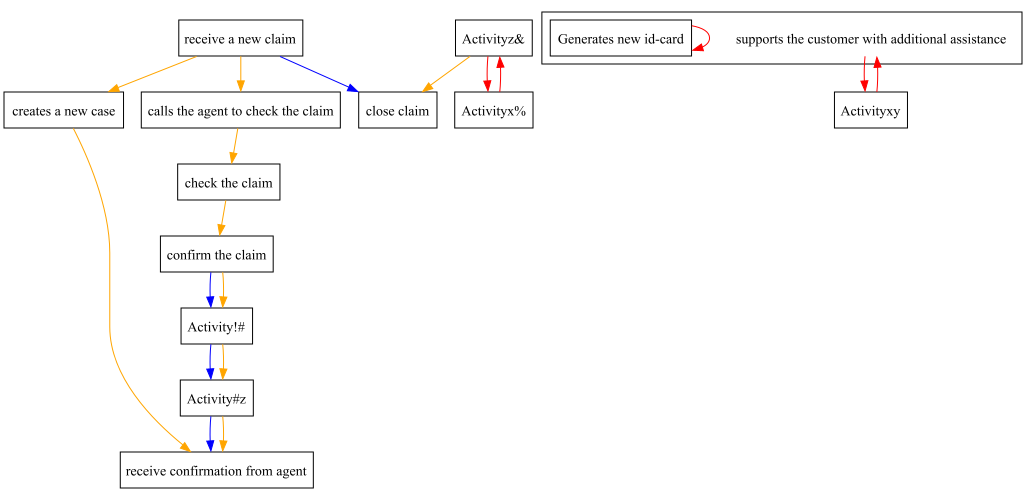
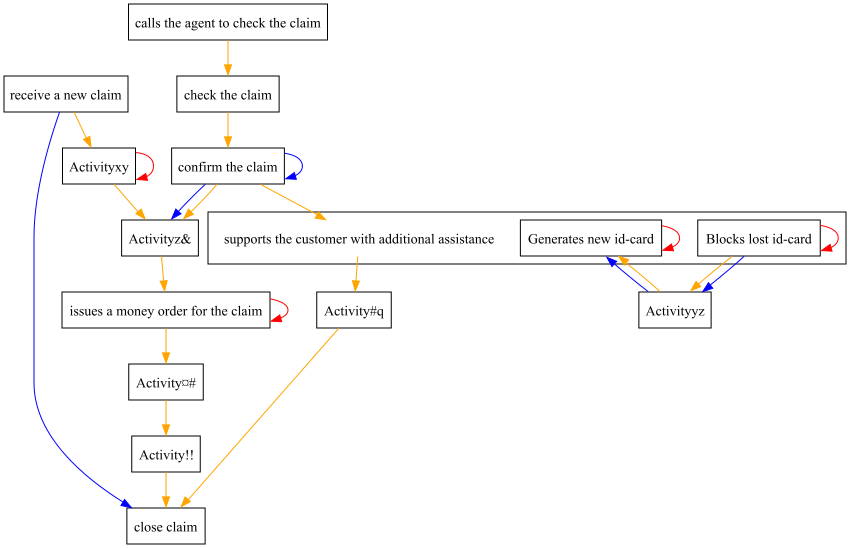
Fixed self-edge bug

diff --git a/src/main/java/beamline/dcr/testsoftware/ModelAdaption.java b/src/main/java/beamline/dcr/testsoftware/ModelAdaption.java
@@ -94,25 +94,29 @@ public class ModelAdaption {
             
             model.getLabelMappings().put(newActivity, newActivity);
             System.out.println("Replacing " + model.getLabelMappings().get(oldActivity)
-            + " with " + model.getLabelMappings().get(newActivity));
+                + " with " + model.getLabelMappings().get(newActivity));
             model.getLabelMappings().remove(oldActivity);
             Set<Triple<String, String, DcrModel.RELATION>> relationsWithActivity = new HashSet<>();
             relationsWithActivity.addAll(model.getDcrRelationsWithActivity(oldActivity));
 
+            Set<Triple<String, String, DcrModel.RELATION>> relationsToRemove = new HashSet<>();
+            Set<Triple<String, String, DcrModel.RELATION>> relationsToAdd = new HashSet<>();
             for (Triple<String, String, DcrModel.RELATION> relation : relationsWithActivity) {
                 String source = relation.getLeft();
                 String target = relation.getMiddle();
                 DcrModel.RELATION dcrConstraint = relation.getRight();
-                model.removeRelation(source, target, dcrConstraint);
-                if (source.equals(oldActivity)) {
-                    model.addRelation(Triple.of(newActivity, target, dcrConstraint));
+                relationsToRemove.add(Triple.of(source, target, dcrConstraint));
+                if (source.equals(oldActivity) && target.equals(oldActivity)) {
+                    relationsToAdd.add(Triple.of(newActivity, newActivity, dcrConstraint));
+                } else if (source.equals(oldActivity)) {
+                    relationsToAdd.add(Triple.of(newActivity, target, dcrConstraint));
                 } else {
-                    model.addRelation(Triple.of(source, newActivity, dcrConstraint));
+                    relationsToAdd.add(Triple.of(source, newActivity, dcrConstraint));
                 }
             }
+            model.addRelations(relationsToAdd);
+            model.removeRelations(relationsToRemove);
             model.getActivities().remove(oldActivity);
-            model.getAllSubActivities().remove(oldActivity);
-            model.getActivities().add(newActivity);
         }
         return true;
     }

diff --git a/src/main/java/beamline/dcr/modeltomodelcomparison/testrunners/BehaviorExperiement.java b/src/main/java/beamline/dcr/modeltomodelcomparison/testrunners/BehaviorExperiement.java
@@ -15,7 +15,7 @@ import beamline.dcr.testsoftware.ModelAdaption;
 
 public class BehaviorExperiement {
 
-    public static Random rand = new Random(989);
+    public static Random rand = new Random(960);
     
     public static void main(String[] args) throws ParserConfigurationException, IOException, SAXException {
         String rootPath = System.getProperty("user.dir");
